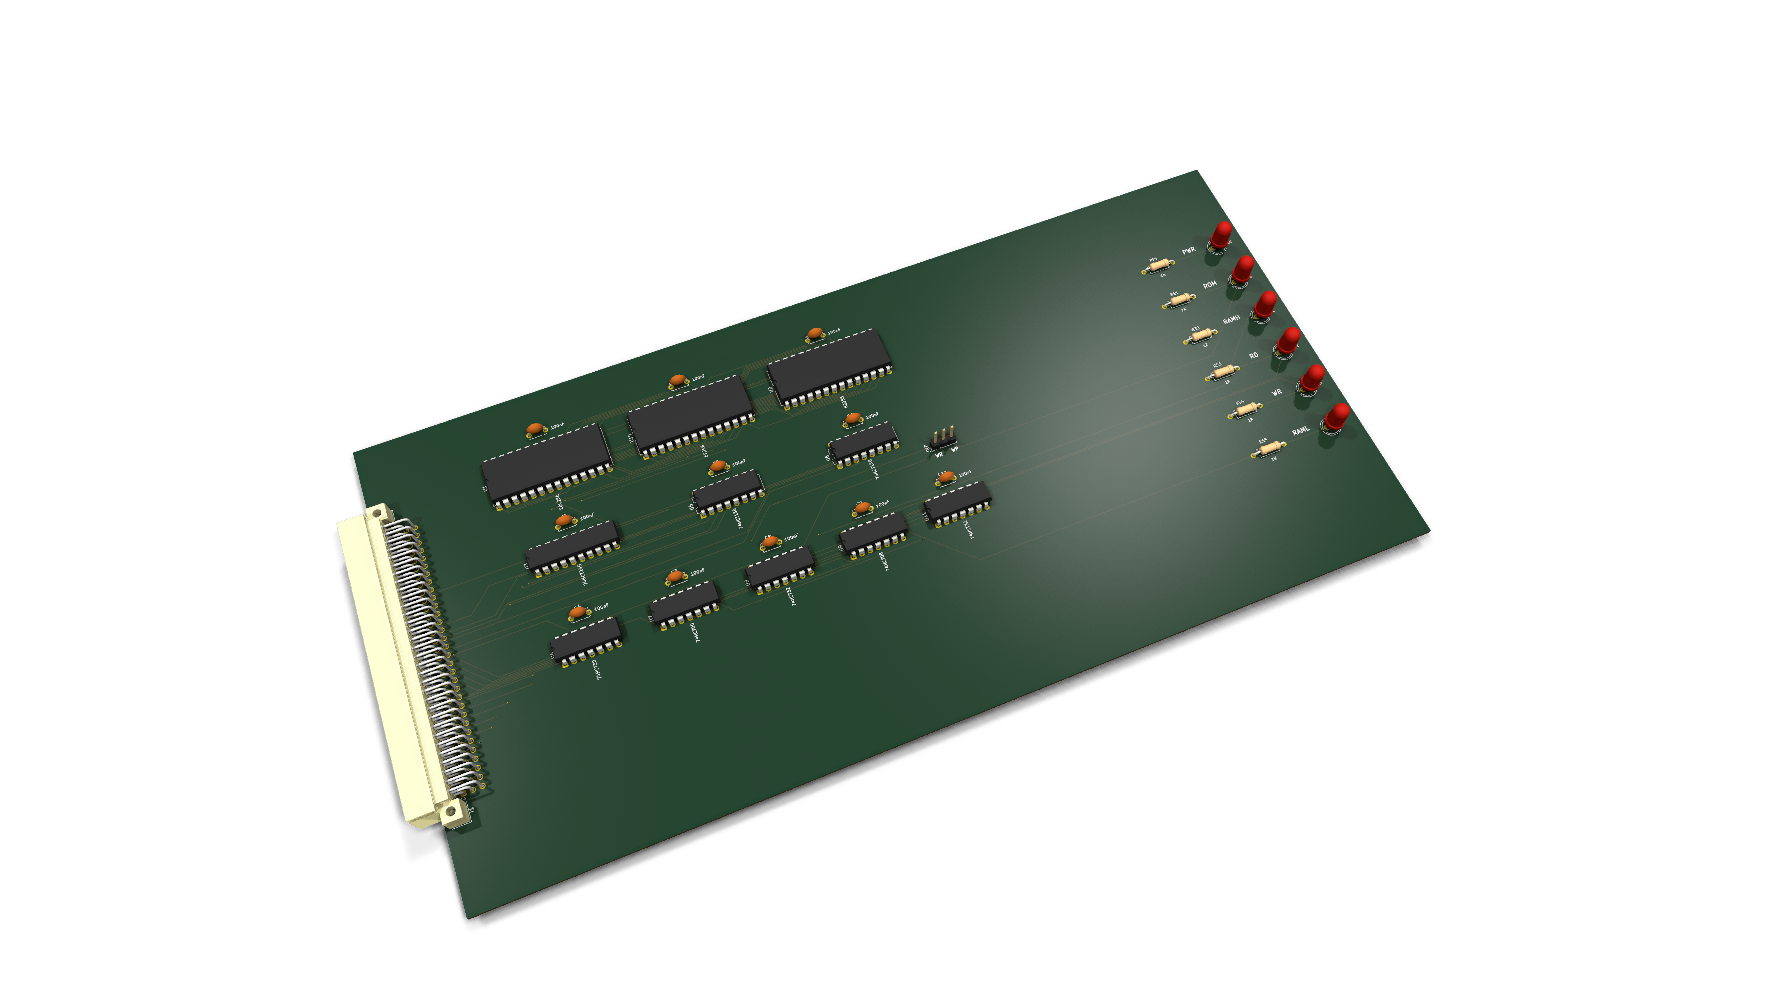
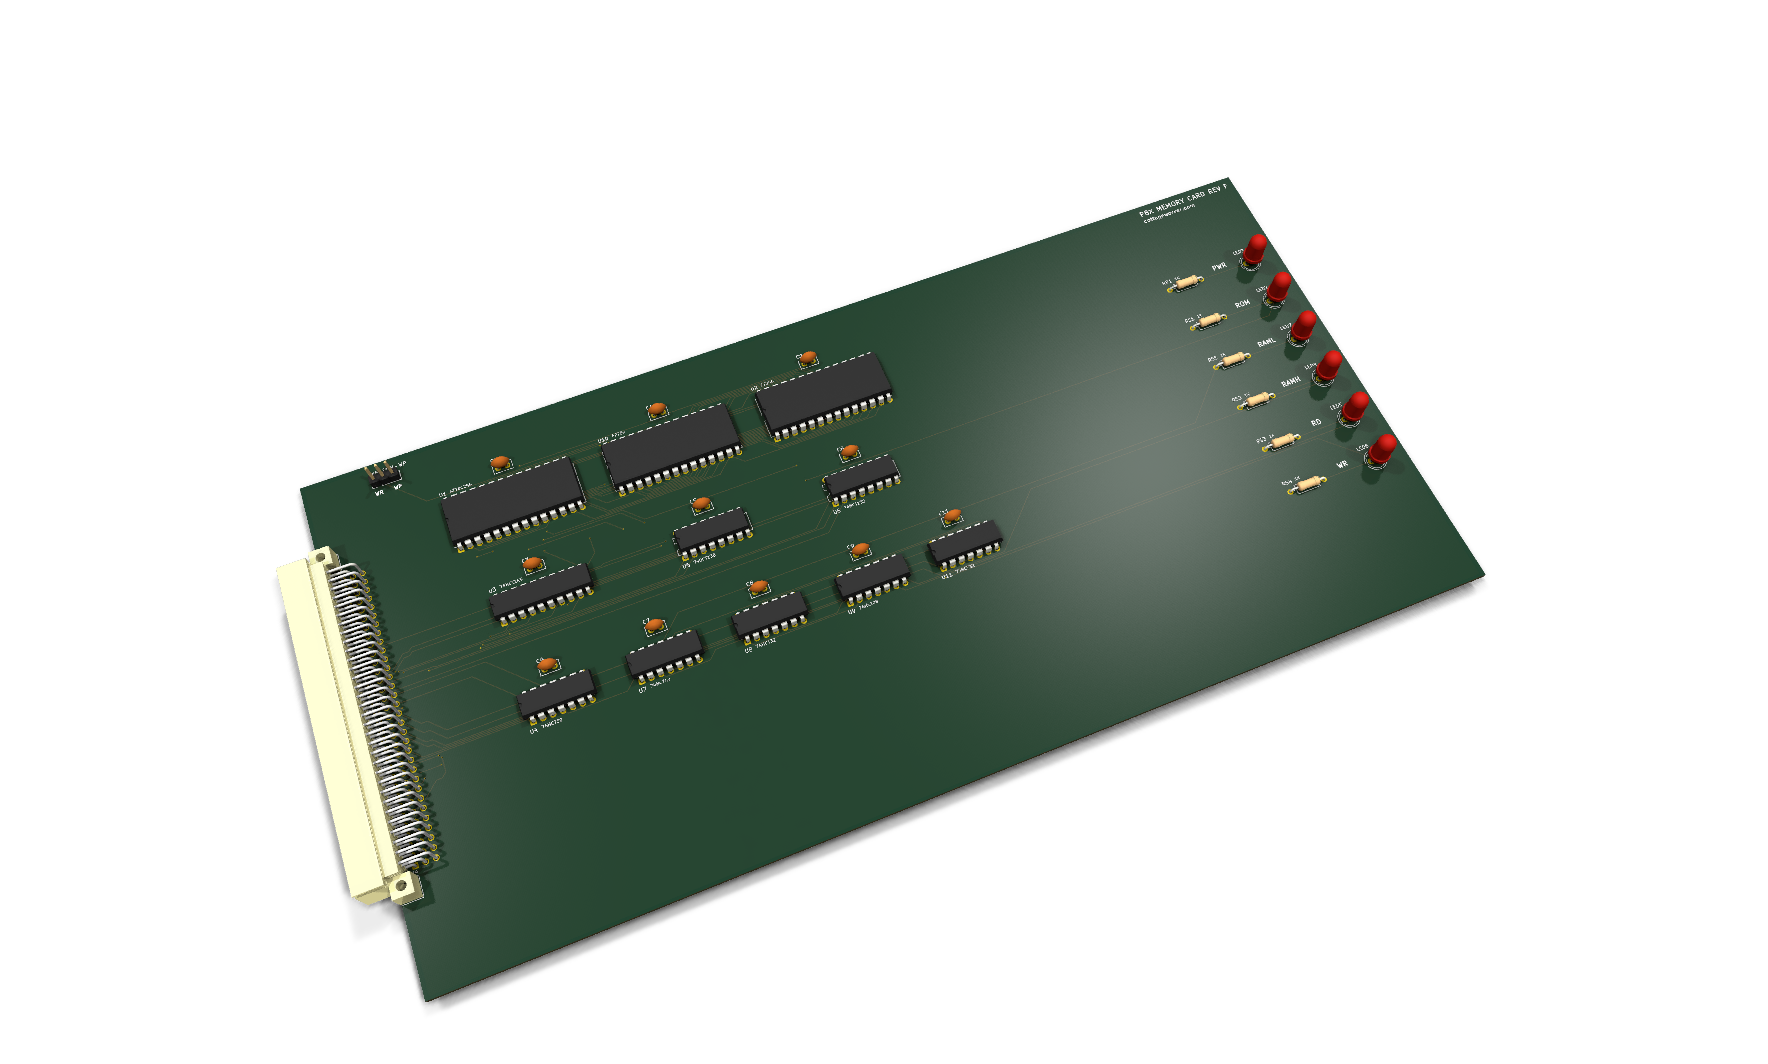
feat(website): a render on every board's theory and KiCad page, captioned as not built
A photo in hardware/<board>/photos/ takes its place; the memory card's 3D render made
again (it was older than its board).

diff --git a/website/stage.py b/website/stage.py
@@ -141,32 +141,70 @@ idx += ["| [%s](%s.md) | %s |" % (k, k, cell(entries[k])) for k in names if k in
 write("commands/index.md", idx); n += 1
 print("manual pages: %d (%d libraries)" % (len(names), len([k for k in names if k in libraries])))
 
-# --- board renders (KiCad, hardware/BOARD/kicad/*-render-{3d,top}.png; 1768 px, transparent background), resized for
-# the web, and the 3D view shown at the top of each board's page with a link to the top view
-from PIL import Image
+# --- each board's picture: its KiCad renders (hardware/BOARD/kicad/*-render-{3d,top}.png; 1768 px, transparent
+# background), cut to the board and resized for the web. The 3D view goes at the top of the board's own page, the top
+# view at the top of its theory and KiCad pages (Ken, 2026-11-23: a photo when there is one, else a render, and the
+# caption says which). A photo of a built board, hardware/BOARD/photos/*.jpg, takes the renders' place by itself.
+from PIL import Image, ImageOps
 BOARD_PAGE = {"backplane": "p8x-backplane-design.md", "bustest-card": "p8x-bustest-card-design.md"}
-renders = 0
+# KICAD-BOARDS.md says so of them all; when that sentence goes, the captions stop saying it
+NOT_BUILT = ", not built" if "None of these boards has been fabricated yet" in open(
+    os.path.join(REPO, "hardware", "KICAD-BOARDS.md"), encoding="utf-8").read() else ""
+renders = photos = 0
+
+
+def put_picture(page, alt, src, width, caption):
+    """A picture with its caption under the page's title (the page is in stage/; src is a stage path)."""
+    path = os.path.join(OUT, page)
+    if not os.path.exists(path): return
+    md = open(path, encoding="utf-8").read().split("\n")
+    h1 = next((i for i, l in enumerate(md) if l.startswith("# ")), -1)
+    md[h1 + 1:h1 + 1] = ["", "![%s](%s){ width=\"%d\" }" % (alt, os.path.relpath(src, os.path.dirname(page)), width),
+                         "", "*%s*" % caption, ""]
+    open(path, "w", encoding="utf-8").write("\n".join(md))
+
+
 for b in BOARDS:
+    staged = {}
     for view in ("3d", "top"):
-        src = os.path.join(REPO, "hardware", b, "kicad", "p8x-%s-render-%s.png" % (b, view))
+        rel = "hardware/%s/kicad/p8x-%s-render-%s.png" % (b, b, view)
+        src = os.path.join(REPO, rel)
         if not os.path.exists(src): continue
-        im = Image.open(src)
+        im = Image.open(src).convert("RGBA")
+        solid = im.getchannel("A").point(lambda a: 255 if a > 128 else 0).getbbox()     # without the faint shadow
+        if solid: im = im.crop(solid)
         # every card is shown with its bus connector at the bottom (Ken, 2026-10-27): the boards have the DIN 41612
         # on their left edge, so the cards' renders are turned a quarter turn anticlockwise (the backplane is not a card)
         if b != "backplane": im = im.rotate(90, expand=True)
-        im.thumbnail((1000, 1000))
-        dst = os.path.join(OUT, "hardware", b, "kicad", os.path.basename(src))
+        im.thumbnail((1200, 1200))
+        dst = os.path.join(OUT, rel)
         os.makedirs(os.path.dirname(dst), exist_ok=True)
         im.quantize(256, method=Image.Quantize.FASTOCTREE).save(dst, optimize=True)
+        staged[view] = rel
         renders += 1; n += 1
-    page = os.path.join(OUT, "hardware", b, BOARD_PAGE.get(b, "README.md"))
-    if os.path.exists(page) and os.path.exists(os.path.join(OUT, "hardware", b, "kicad", "p8x-%s-render-3d.png" % b)):
-        md = open(page, encoding="utf-8").read().split("\n")
-        h1 = next((i for i, l in enumerate(md) if l.startswith("# ")), -1)
-        figure = ["", "![%s, KiCad 3D render](kicad/p8x-%s-render-3d.png)" % (md[h1][2:].strip(), b), "",
-                  "*The board as routed in KiCad (3D render; [top view](kicad/p8x-%s-render-top.png)).*" % b]
-        md[h1 + 1:h1 + 1] = figure
-        open(page, "w", encoding="utf-8").write("\n".join(md))
+    own = "hardware/%s/%s" % (b, BOARD_PAGE.get(b, "README.md"))
+    others = ["hardware/%s/p8x-%s-theory.md" % (b, b), "hardware/%s/kicad/README.md" % b]
+    others = [p for p in others if p != own]
+    name = b.replace("-", " ")
+    found = sorted(glob.glob(os.path.join(REPO, "hardware", b, "photos", "*.jpg")))
+    if found:
+        rel = os.path.relpath(found[0], REPO)
+        im = ImageOps.exif_transpose(Image.open(found[0]))
+        im.thumbnail((1400, 1400))
+        os.makedirs(os.path.dirname(os.path.join(OUT, rel)), exist_ok=True)
+        im.convert("RGB").save(os.path.join(OUT, rel), quality=85, optimize=True)
+        photos += 1; n += 1
+        for page in [own] + others: put_picture(page, "Photo: the %s" % name, rel, 420, "Photo: the built %s" % name)
+        continue
+    wide = 600 if b == "backplane" else 420
+    if "3d" in staged:
+        link = " [Top view](%s)." % os.path.relpath(staged["top"], os.path.dirname(own)) if "top" in staged else ""
+        put_picture(own, "KiCad 3D render of the %s" % name, staged["3d"], wide,
+                    "KiCad 3D render%s: the board as routed.%s" % (NOT_BUILT, link))
+    if "top" in staged:
+        for page in others:
+            put_picture(page, "KiCad render of the %s" % name, staged["top"], wide if b == "backplane" else 360,
+                        "KiCad render%s: the board as routed, from above." % NOT_BUILT)
 # the assembled-machine renders (hardware/assembly/*.png, 2400 px, from generators/render_assembly.py), resized for
 # the web; their gradient background bands at 256 colours, so they are dithered. hardware/assembly/README.md shows them
 for src in sorted(glob.glob(os.path.join(REPO, "hardware", "assembly", "*.png"))):
@@ -177,5 +215,5 @@ for src in sorted(glob.glob(os.path.join(REPO, "hardware", "assembly", "*.png"))
     pal = im.quantize(256, method=Image.Quantize.FASTOCTREE)
     im.quantize(palette=pal, dither=Image.Dither.FLOYDSTEINBERG).save(dst, optimize=True)
     renders += 1; n += 1
-print("board renders: %d" % renders)
+print("board renders: %d, photos: %d" % (renders, photos))
 print("staged %d files" % n)

diff --git a/website/hooks.py b/website/hooks.py
@@ -4,7 +4,7 @@ becomes a link to that file on GitHub; an image that is not part of the site is 
 A link to a directory goes to that directory's README page when the site has one, otherwise to the directory on
 GitHub.
 It also adds a "KiCad board" item to each board's menu under Hardware (on_config)."""
-import os, posixpath, re
+import glob, os, posixpath, re, subprocess
 from urllib.parse import unquote
 
 REPO = os.path.dirname(os.path.dirname(os.path.abspath(__file__)))   # the repository this folder is in
@@ -102,3 +102,13 @@ def on_page_markdown(markdown, page, config, files):
 def on_post_build(config):
     print("hooks: %d links to files outside the site now point at GitHub (%s); %d links to directories or renamed "
           "files go to their site page" % (stats["github"], BRANCH, stats["readme"]))
+    for p in sorted(glob.glob(os.path.join(REPO, "hardware", "*", "kicad", "*-render-*.png"))):
+        boards = glob.glob(os.path.join(os.path.dirname(p), "*.kicad_pcb"))
+        if boards and 0 < committed(p) < max(committed(b) for b in boards):
+            print("hooks: %s is older than its board: render it again" % os.path.relpath(p, REPO))
+
+
+def committed(path):
+    """When a file was last committed (seconds), 0 when it never was."""
+    r = subprocess.run(["git", "-C", REPO, "log", "-1", "--format=%ct", "--", path], capture_output=True, text=True)
+    return int(r.stdout.strip() or 0)

diff --git a/website/README.md b/website/README.md
@@ -8,8 +8,8 @@ a readable view of them, with navigation and search.
 |---|---|
 | `home.md` | the visitor home page (the site's index) |
 | `p8x-collage.jpg` | the home page's lead picture: the assembled-machine renders and the memory card (until there are photos of built boards) |
-| `stage.py` | copies the documents the site uses into `stage/`, keeping their repository paths so the links between them work, and generates the extra pages |
-| `hooks.py` | MkDocs hook: a link to a repository file that is not part of the site becomes a link to that file on GitHub (branch `main`); each board's Hardware menu gets a "KiCad board" item (its `kicad/README.md`, with the revision `hardware/KICAD-BOARDS.md` names) |
+| `stage.py` | copies the documents the site uses into `stage/`, keeping their repository paths so the links between them work, and generates the extra pages; puts a picture at the top of each board's own, theory and KiCad pages: a photo (`hardware/<board>/photos/*.jpg`) when there is one, else its KiCad render, captioned as which |
+| `hooks.py` | MkDocs hook: a link to a repository file that is not part of the site becomes a link to that file on GitHub (branch `main`); each board's Hardware menu gets a "KiCad board" item (its `kicad/README.md`, with the revision `hardware/KICAD-BOARDS.md` names); the build names any render older than its board |
 | `mkdocs.yml` | the site: navigation, theme, Markdown extensions |
 | `mkdocs-publish.yml` | `mkdocs.yml` + the Google Analytics tag (G-X7P96DTCNE); only the published build carries it |
 | `requirements.txt` | the Python packages, pinned |
